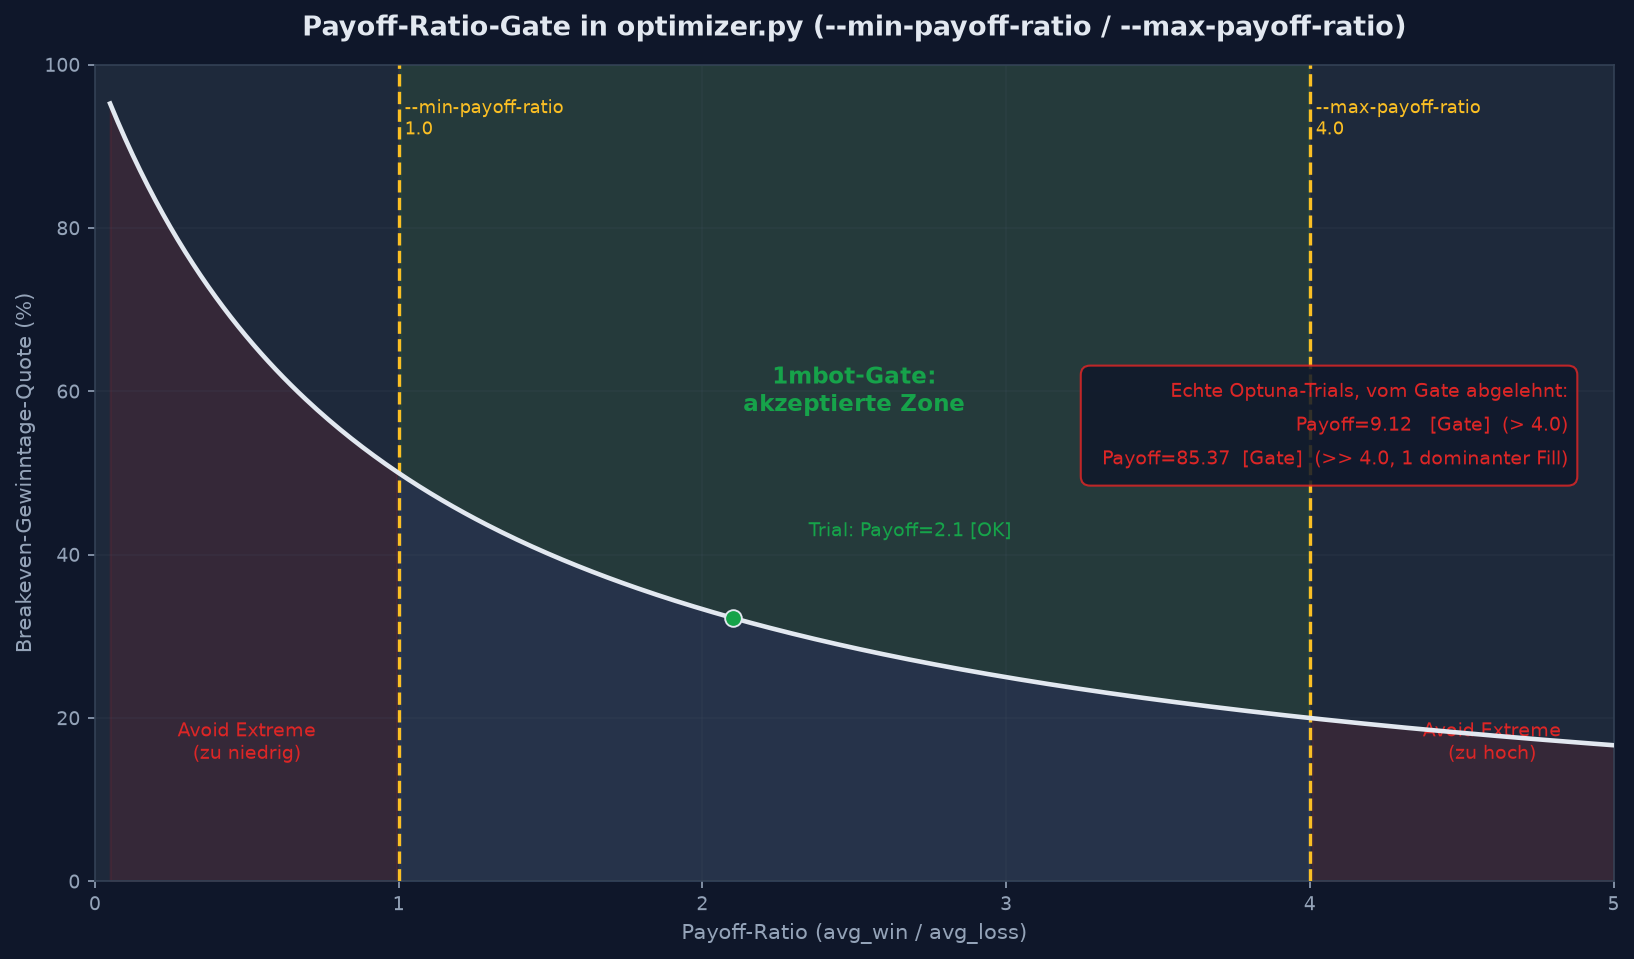
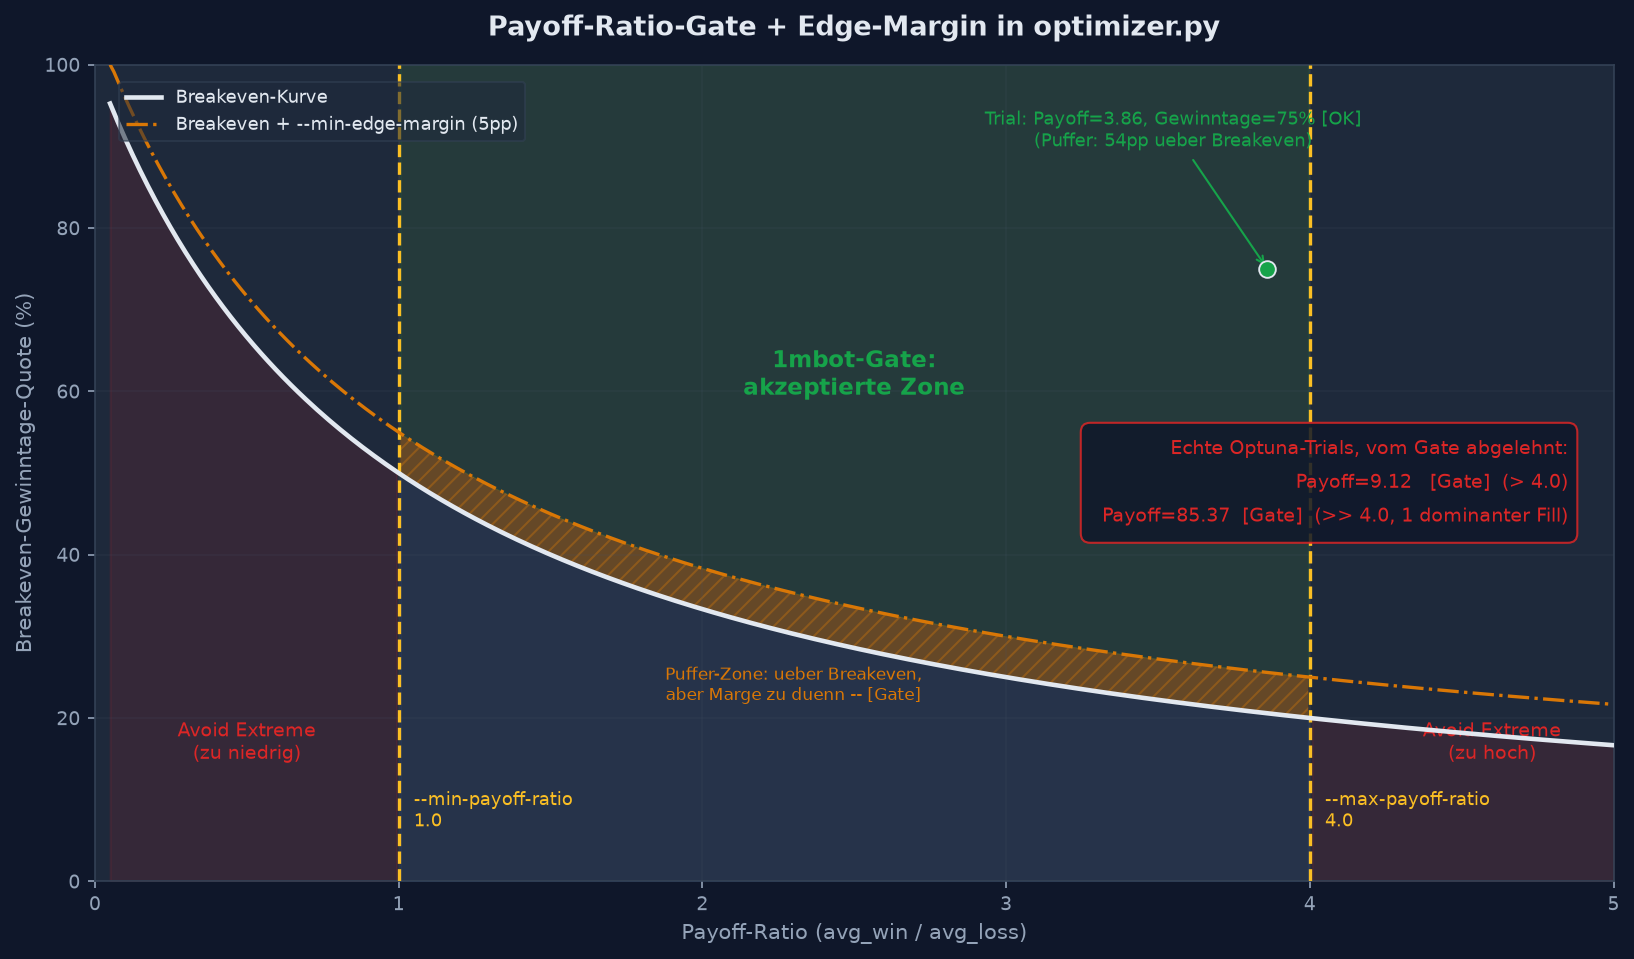
Edge-Margin-Gate: Puffer ueber der realisierten Breakeven-Quote fordern
Ausgeloest durch eine Beobachtung am Payoff-Ratio-Chart: der Beispielpunkt
lag exakt auf der Breakeven-Linie -- das deckte eine echte Luecke auf.
min_win_ratio ist ein FESTER Floor (Standard 0.5), unabhaengig vom
Payoff-Ratio. Bei payoff_ratio=1.0 liegt die Breakeven-Quote aber bei
genau 50%, deckungsgleich mit dem Standard-min_win_ratio -- ein Trial
konnte also die Payoff-Ratio- UND die Gewinntage-Quote-Schwelle gleichzeitig
nur hauchduenn, ganz ohne Puffer erfuellen.

Neues --min-edge-margin (Standard 0.05, 5 Prozentpunkte) verlangt
stattdessen einen Mindest-Abstand der TATSAECHLICHEN Gewinntage-Quote
zur aus dem realisierten Payoff-Ratio berechneten Breakeven-Linie --
zusaetzlich zu den bestehenden Gates, nicht als Ersatz. Gilt fuer
IS-Suche, OOS-Bestaetigung und --apply gleichermassen. run_pipeline.sh
fragt den Puffer in Prozentpunkten ab (leichter einzugeben als eine
0-1-Dezimalzahl) und rechnet vor dem Aufruf um.

docs/concept_payoff_ratio.png ueberarbeitet: zeigt jetzt die Breakeven-
Linie UND die Edge-Margin-Schwelle als zweite Kurve mit schraffierter
Pufferzone dazwischen, Beispielpunkt nutzt echte Trial-Daten (Payoff=3.86,
Gewinntage=75%) statt eines irrefuehrend auf der Kurve platzierten Punkts.
docs/concept_is_oos.png: Gate-Liste + "Alle Gates OK" aktualisiert.

diff --git a/optimizer.py b/optimizer.py
@@ -15,8 +15,10 @@ Zielfunktion ("Strict"-Modus, analog zu ltbbot/stbot): maximiert den Gesamt-
 PnL ueber ein Multi-Day-Backtest-Fenster (siehe backtest_multiday.py), aber
 nur Trials, die zusaetzlich
   (a) eine Mindest-Gewinntage-Quote,
-  (b) eine Mindest-Fill-Zahl und
-  (c) eine Payoff-Ratio (Avg-Win/Avg-Loss) innerhalb [min_payoff_ratio, max_payoff_ratio]
+  (b) eine Mindest-Fill-Zahl,
+  (c) eine Payoff-Ratio (Avg-Win/Avg-Loss) innerhalb [min_payoff_ratio, max_payoff_ratio] und
+  (d) einen Mindest-Puffer (min_edge_margin) UEBER der aus der REALISIERTEN
+      Payoff-Ratio berechneten Breakeven-Gewinntage-Quote
 erreichen, gelten als gueltig. Ohne (b) waere ein spacing_atr_mult, das so
 hoch ist, dass praktisch nie gehandelt wird, ein triviales "perfektes"
 0-Fills/0-Verlust-Optimum -- nicht das, was hier gesucht wird (vgl.
@@ -30,7 +32,13 @@ Parametersaetze heraus, die nur durch ein fragiles Verhaeltnis aus vielen
 kleinen Gewinnern/wenigen grossen Verlierern (oder umgekehrt) profitabel
 aussehen -- payoff_ratio=None (keine Verlust-Fills im Fenster) wird NICHT
 bestraft, das ist zu wenig Datenpunkte fuer die Kennzahl, keine "extreme"
-Ratio.
+Ratio. (d) schliesst eine Luecke von (a)+(c): min_win_ratio ist ein FESTER
+Floor unabhaengig vom Payoff-Ratio, bei payoff_ratio=1.0 liegt die Breakeven-
+Quote aber bei genau 50% -- deckungsgleich mit dem Standard-min_win_ratio=0.5,
+also ganz ohne Puffer. --min-edge-margin (Standard 0.05) verlangt stattdessen
+einen Mindest-Abstand zur TATSAECHLICHEN, aus der realisierten Payoff-Ratio
+berechneten Breakeven-Linie, statt zwei unabhaengige Schwellen, die beide
+gleichzeitig nur hauchduenn erfuellt sein koennten.
 
 IN-SAMPLE / OUT-OF-SAMPLE-SPLIT (wie ltbbot/stbot, --is-fraction, Standard
 70/30): Optuna sieht beim Suchen NUR die aeltesten `is_fraction` der ueber
@@ -252,7 +260,8 @@ async def run_scored_backtest(symbol: str, base_settings: dict, grid_cfg: dict, 
 async def evaluate(trial: optuna.Trial, symbol: str, base_settings: dict, rest_client,
                     is_days: list[datetime], fill_timeframe: str,
                     min_win_ratio: float, min_fills: int,
-                    min_payoff_ratio: float, max_payoff_ratio: float) -> float:
+                    min_payoff_ratio: float, max_payoff_ratio: float,
+                    min_edge_margin: float) -> float:
     grid_cfg = suggest_grid_cfg(trial, base_settings["grid"])
     metrics = await run_scored_backtest(
         symbol, base_settings, grid_cfg, rest_client, is_days, fill_timeframe,
@@ -279,6 +288,16 @@ async def evaluate(trial: optuna.Trial, symbol: str, base_settings: dict, rest_c
             violation += (min_payoff_ratio - payoff_ratio) * 10
         elif payoff_ratio > max_payoff_ratio:
             violation += (payoff_ratio - max_payoff_ratio) * 10
+        # Edge-Margin: min_win_ratio ist ein FESTER Floor, unabhaengig vom Payoff-Ratio --
+        # bei payoff_ratio=1.0 liegt die Breakeven-Quote bei genau 50%, deckungsgleich mit
+        # dem Standard-min_win_ratio=0.5, also OHNE jeden Puffer. Diese zusaetzliche Pruefung
+        # verlangt, dass die tatsaechliche Quote die aus dem REALISIERTEN Payoff-Ratio
+        # berechnete Breakeven-Quote um min_edge_margin uebertrifft, statt zwei unabhaengige
+        # Schwellen, die beide gleichzeitig nur hauchduenn erfuellt sein koennen.
+        breakeven = 1.0 / (1.0 + payoff_ratio)
+        required = breakeven + min_edge_margin
+        if win_ratio < required:
+            violation += (required - win_ratio) * 100
 
     if violation > 0:
         return -1000.0 - violation
@@ -286,10 +305,17 @@ async def evaluate(trial: optuna.Trial, symbol: str, base_settings: dict, rest_c
 
 
 def is_feasible(metrics: dict, min_fills: int, min_win_ratio: float,
-                 min_payoff_ratio: float = 0.0, max_payoff_ratio: float = float("inf")) -> bool:
+                 min_payoff_ratio: float = 0.0, max_payoff_ratio: float = float("inf"),
+                 min_edge_margin: float = 0.0) -> bool:
     payoff_ratio = metrics.get("payoff_ratio")
     payoff_ok = payoff_ratio is None or min_payoff_ratio <= payoff_ratio <= max_payoff_ratio
-    return metrics["total_fills"] >= min_fills and metrics["win_ratio"] >= min_win_ratio and payoff_ok
+    if payoff_ratio is not None:
+        breakeven = 1.0 / (1.0 + payoff_ratio)
+        margin_ok = metrics["win_ratio"] >= breakeven + min_edge_margin
+    else:
+        margin_ok = True
+    return (metrics["total_fills"] >= min_fills and metrics["win_ratio"] >= min_win_ratio
+            and payoff_ok and margin_ok)
 
 
 def _fmt_payoff(payoff_ratio: float | None) -> str:
@@ -305,7 +331,7 @@ def run_symbol_study(symbol: str, base_settings: dict, rest_client, args: argpar
         return asyncio.run(evaluate(
             trial, symbol, base_settings, rest_client,
             is_days, args.fill_timeframe, args.min_win_ratio, args.min_fills,
-            args.min_payoff_ratio, args.max_payoff_ratio,
+            args.min_payoff_ratio, args.max_payoff_ratio, args.min_edge_margin,
         ))
 
     def report_progress(study: optuna.Study, trial: optuna.trial.FrozenTrial) -> None:
@@ -313,7 +339,7 @@ def run_symbol_study(symbol: str, base_settings: dict, rest_client, args: argpar
         # der Prozess haengt, noch Daten laedt oder einfach nur rechnet --
         # genau die Frage, die beim ersten echten Testlauf aufkam.
         feasible = is_feasible(trial.user_attrs, args.min_fills, args.min_win_ratio,
-                                args.min_payoff_ratio, args.max_payoff_ratio)
+                                args.min_payoff_ratio, args.max_payoff_ratio, args.min_edge_margin)
         best_pnl = study.best_trial.user_attrs.get("total_pnl", 0.0)
         dur = trial.duration.total_seconds() if trial.duration is not None else None
         dur_str = f"{dur:.1f}s" if dur is not None else "?"
@@ -348,7 +374,7 @@ def run_symbol_study(symbol: str, base_settings: dict, rest_client, args: argpar
         ledger_prefix=f"oos_{symbol.replace('/', '_').replace(':', '_')}",
     ))
     oos_ok = is_feasible(oos_metrics, min_oos_fills, args.min_win_ratio,
-                          args.min_payoff_ratio, args.max_payoff_ratio)
+                          args.min_payoff_ratio, args.max_payoff_ratio, args.min_edge_margin)
     rest_client.ticker.print_line(
         f"  OOS-Ergebnis [{'OK' if oos_ok else 'GATE VERFEHLT'}]: PnL={oos_metrics['total_pnl']:+.4f} USDT, "
         f"Fills={oos_metrics['total_fills']} (Mindest: {min_oos_fills}), "
@@ -360,7 +386,7 @@ def run_symbol_study(symbol: str, base_settings: dict, rest_client, args: argpar
 
 def apply_results(settings: dict, results: dict[str, tuple[optuna.trial.FrozenTrial, dict]], min_fills: int,
                    min_win_ratio: float, min_oos_fills: int,
-                   min_payoff_ratio: float, max_payoff_ratio: float) -> None:
+                   min_payoff_ratio: float, max_payoff_ratio: float, min_edge_margin: float) -> None:
     overrides = settings.setdefault("per_symbol_overrides", {})
     applied, skipped = [], []
     for symbol, (best, oos_metrics) in results.items():
@@ -368,8 +394,8 @@ def apply_results(settings: dict, results: dict[str, tuple[optuna.trial.FrozenTr
         # gut aussieht, ist per Definition dieses Skripts genau das
         # In-Sample-Rauschen, das der OOS-Split verhindern soll (siehe
         # Modul-Docstring, dnabot-Praezedenzfall).
-        if not (is_feasible(best.user_attrs, min_fills, min_win_ratio, min_payoff_ratio, max_payoff_ratio)
-                and is_feasible(oos_metrics, min_oos_fills, min_win_ratio, min_payoff_ratio, max_payoff_ratio)):
+        if not (is_feasible(best.user_attrs, min_fills, min_win_ratio, min_payoff_ratio, max_payoff_ratio, min_edge_margin)
+                and is_feasible(oos_metrics, min_oos_fills, min_win_ratio, min_payoff_ratio, max_payoff_ratio, min_edge_margin)):
             skipped.append(symbol)
             continue
         overrides[symbol] = {"grid": params_to_grid_cfg(settings["grid"], best.params)}
@@ -380,8 +406,9 @@ def apply_results(settings: dict, results: dict[str, tuple[optuna.trial.FrozenTr
     if applied:
         print(f"\n[OK] settings.json aktualisiert -- per_symbol_overrides fuer: {', '.join(applied)}")
     if skipped:
-        print(f"[!] IS-, OOS- oder Payoff-Ratio-Gate verfehlt (min_fills={min_fills}, min_oos_fills={min_oos_fills}, "
-              f"min_win_ratio={min_win_ratio}, payoff_ratio=[{min_payoff_ratio}, {max_payoff_ratio}]) -- "
+        print(f"[!] IS-, OOS-, Payoff-Ratio- oder Edge-Margin-Gate verfehlt (min_fills={min_fills}, "
+              f"min_oos_fills={min_oos_fills}, min_win_ratio={min_win_ratio}, "
+              f"payoff_ratio=[{min_payoff_ratio}, {max_payoff_ratio}], min_edge_margin={min_edge_margin}) -- "
               f"NICHT uebernommen, laeuft weiter mit dem globalen grid-Block: {', '.join(skipped)}")
 
 
@@ -406,6 +433,11 @@ def main() -> None:
     parser.add_argument("--max-payoff-ratio", type=float, default=4.0,
                          help="Hoechst-Payoff-Ratio -- darueber gilt der Trial ebenfalls als 'Avoid Extreme'-Zone "
                               "(unrealistisch wenige, grosse Gewinner sind meist Ueberfitting) (Standard: 4.0)")
+    parser.add_argument("--min-edge-margin", type=float, default=0.05,
+                         help="Mindest-Puffer (0-1) der tatsaechlichen Gewinntage-Quote UEBER der aus dem "
+                              "realisierten Payoff-Ratio berechneten Breakeven-Quote -- ohne diesen Puffer koennte "
+                              "ein Trial bei niedriger Payoff-Ratio genau auf der Breakeven-Linie liegen und trotzdem "
+                              "--min-win-ratio erfuellen (Standard: 0.05, also 5 Prozentpunkte)")
     parser.add_argument("--exchange", default="bitget", choices=list(EXCHANGE_OPTIONS.keys()),
                          help="Exchange fuer den historischen OHLCV-Abruf (Standard: bitget)")
     parser.add_argument("--apply", action="store_true",
@@ -449,6 +481,8 @@ def main() -> None:
           f"(juengste, min_oos_fills={min_oos_fills})")
     print(f"    Payoff-Ratio-Gate: [{args.min_payoff_ratio}, {args.max_payoff_ratio}] "
           f"(Avg-Win/Avg-Loss, Breakeven-Kurve 'Avoid Extreme'-Zonen)")
+    print(f"    Edge-Margin: +{args.min_edge_margin*100:.1f} Prozentpunkte ueber der "
+          f"Payoff-Ratio-Breakeven-Quote gefordert")
 
     results: dict[str, tuple[optuna.trial.FrozenTrial, dict]] = {}
     ticker.start()
@@ -460,9 +494,9 @@ def main() -> None:
     print("\n=== Zusammenfassung ===")
     for symbol, (best, oos_metrics) in results.items():
         is_ok = is_feasible(best.user_attrs, args.min_fills, args.min_win_ratio,
-                             args.min_payoff_ratio, args.max_payoff_ratio)
+                             args.min_payoff_ratio, args.max_payoff_ratio, args.min_edge_margin)
         oos_ok = is_feasible(oos_metrics, min_oos_fills, args.min_win_ratio,
-                              args.min_payoff_ratio, args.max_payoff_ratio)
+                              args.min_payoff_ratio, args.max_payoff_ratio, args.min_edge_margin)
         flag = "OK" if (is_ok and oos_ok) else ("OOS GATE VERFEHLT" if is_ok else "IS GATE VERFEHLT")
         print(f"  {symbol:<20} IS-PnL={best.user_attrs['total_pnl']:+.4f} USDT  "
               f"OOS-PnL={oos_metrics['total_pnl']:+.4f} USDT  "
@@ -470,7 +504,7 @@ def main() -> None:
 
     if args.apply:
         apply_results(settings, results, args.min_fills, args.min_win_ratio, min_oos_fills,
-                       args.min_payoff_ratio, args.max_payoff_ratio)
+                       args.min_payoff_ratio, args.max_payoff_ratio, args.min_edge_margin)
     else:
         print("\n(--apply nicht gesetzt: settings.json wurde NICHT veraendert.)")
 

diff --git a/README.md b/README.md
@@ -235,19 +235,21 @@ python backtest_multiday.py --start 2026-02-01 --end 2026-07-18 --count 20 --exc
 ./run_pipeline.sh
 # oder direkt:
 python optimizer.py --start 2026-08-01 --end 2026-08-28 --count 20 \
-    --trials 60 --min-win-ratio 0.5 --min-fills 20 \
-    --is-fraction 0.7 --min-payoff-ratio 1.0 --max-payoff-ratio 4.0 --apply
+    --trials 60 --min-win-ratio 0.5 --min-fills 20 --is-fraction 0.7 \
+    --min-payoff-ratio 1.0 --max-payoff-ratio 4.0 --min-edge-margin 0.05 --apply
 ```
 
 ### In-Sample / Out-of-Sample-Split
 
-Optuna sieht beim Suchen NUR die aeltesten `--is-fraction` (Standard 70%) der ueber das Fenster verteilten Tage -- die juengsten 30% sieht kein einziger Trial, sie bestaetigen ausschliesslich den am Ende gefundenen besten Parametersatz. Ohne diesen Split waere das Ergebnis reines In-Sample-Rauschen (siehe dnabot-Praezedenzfall: In-Sample-Optimizer +151.2%, echter Walk-Forward -99.5% bis -100%). `--apply` uebernimmt ein Symbol nur, wenn Mindest-Fills, Mindest-Gewinntage-Quote UND Payoff-Ratio-Gate **sowohl in-sample als auch out-of-sample** greifen.
+Optuna sieht beim Suchen NUR die aeltesten `--is-fraction` (Standard 70%) der ueber das Fenster verteilten Tage -- die juengsten 30% sieht kein einziger Trial, sie bestaetigen ausschliesslich den am Ende gefundenen besten Parametersatz. Ohne diesen Split waere das Ergebnis reines In-Sample-Rauschen (siehe dnabot-Praezedenzfall: In-Sample-Optimizer +151.2%, echter Walk-Forward -99.5% bis -100%). `--apply` uebernimmt ein Symbol nur, wenn Mindest-Fills, Mindest-Gewinntage-Quote, Payoff-Ratio-Gate UND Edge-Margin **sowohl in-sample als auch out-of-sample** greifen.
 
 ![In-Sample/Out-of-Sample-Split](docs/concept_is_oos.png)
 
-### Payoff-Ratio-Gate
+### Payoff-Ratio-Gate + Edge-Margin
 
 `total_pnl > 0` allein reicht nicht als Qualitaetsmerkmal -- ein Parametersatz kann durch ein einziges dominantes Fill-Ereignis profitabel aussehen, obwohl das zugrundeliegende Verhaeltnis aus Gewinnern/Verlierern fragil ist. `--min-payoff-ratio`/`--max-payoff-ratio` (Standard 1.0/4.0) lehnen Trials in den "Avoid Extreme"-Zonen der Breakeven-Winrate-Kurve ab, unabhaengig vom PnL. `payoff_ratio` bleibt unbestraft, wenn im Fenster schlicht keine Verlust-Fills vorkamen (zu wenig Datenpunkte fuer die Kennzahl, keine "extreme" Ratio).
+
+`--min-win-ratio` allein reicht als Schwelle nicht: sie ist FEST, unabhaengig vom Payoff-Ratio -- bei `payoff_ratio=1.0` liegt die Breakeven-Quote aber bei genau 50%, deckungsgleich mit dem Standard-`min-win-ratio=0.5`, also ganz ohne Puffer. `--min-edge-margin` (Standard 0.05, also 5 Prozentpunkte) verlangt stattdessen einen Mindest-Abstand zur TATSAECHLICHEN, aus dem realisierten Payoff-Ratio berechneten Breakeven-Linie.
 
 ![Payoff-Ratio-Gate](docs/concept_payoff_ratio.png)
 
